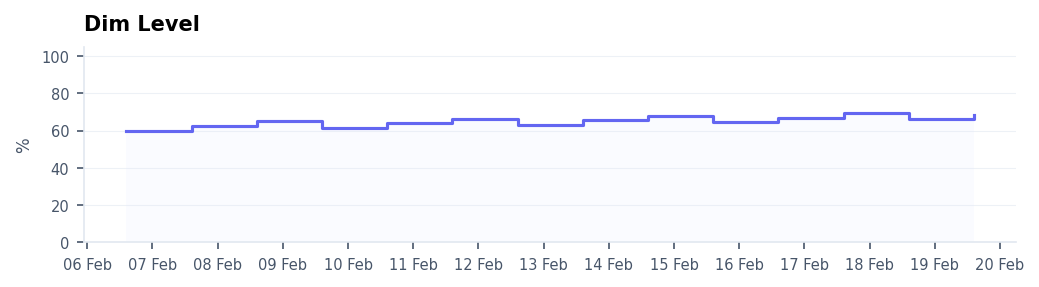
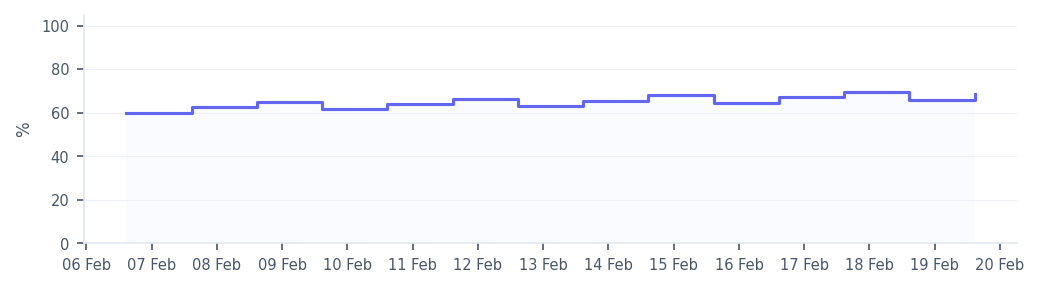
fix: correct 6 PDF report visual issues found during inspection
- Period label: only show month name for full calendar months (1st–last day)
- Chart titles: remove ax.set_title() calls to avoid duplicating HTML section headers
- Orphaned headers: add page-break-after:avoid to .section-title CSS
- Donut chart: replace unreliable flex ratios with explicit percentage widths
- Last Active column: fetch lastActivityTime and display in device table
- Site column: conditionally hide when report scope is a single site

diff --git a/reports-service/templates/report.html b/reports-service/templates/report.html
@@ -81,6 +81,7 @@
     padding-bottom: 3px;
     border-bottom: 2px solid #f59e0b;
     display: inline-block;
+    page-break-after: avoid;
   }
 
   /* ── KPI cards ──────────────────────────────────────── */
@@ -149,12 +150,14 @@
   }
 
   .device-table-wrap {
-    flex: 7;
+    width: 68%;
+    flex-shrink: 0;
     min-width: 0;
   }
 
   .device-donut-wrap {
-    flex: 3;
+    width: 28%;
+    flex-shrink: 0;
     display: flex;
     align-items: center;
     justify-content: center;
@@ -354,8 +357,9 @@
       <thead>
         <tr>
           <th>Device</th>
-          <th>Site</th>
+          {% if entity_type != "site" %}<th>Site</th>{% endif %}
           <th>Status</th>
+          <th>Last Active</th>
           <th class="num">Energy (kWh)</th>
           <th class="num">CO&#x2082; (kg)</th>
         </tr>
@@ -364,11 +368,12 @@
         {% for dev in devices %}
         <tr>
           <td>{{ dev.name }}</td>
-          <td>{{ dev.site }}</td>
+          {% if entity_type != "site" %}<td>{{ dev.site }}</td>{% endif %}
           <td>
             <span class="status-dot {{ 'online' if dev.status == 'Online' else 'offline' }}"></span>
             {{ dev.status }}
           </td>
+          <td>{{ dev.last_active }}</td>
           <td class="num">{{ "%.1f"|format(dev.energy_kwh) }}</td>
           <td class="num">{{ "%.1f"|format(dev.co2_kg) }}</td>
         </tr>

diff --git a/reports-service/services/chart_generator.py b/reports-service/services/chart_generator.py
@@ -100,7 +100,6 @@ def _auto_date_format(ax: plt.Axes, num_points: int) -> None:
 
 def _make_trend_area_chart(
     trend_data: list[dict],
-    title: str,
     ylabel: str,
     fill_color: str,
     line_color: str,
@@ -111,7 +110,7 @@ def _make_trend_area_chart(
     *trend_data* is ``[{ts: int, value: float}, ...]`` sorted by ts.
     """
     if not trend_data:
-        return _empty_chart_placeholder(title)
+        return _empty_chart_placeholder()
 
     dates, values = _ts_to_dates(trend_data)
 
@@ -119,7 +118,6 @@ def _make_trend_area_chart(
     if len(dates) == 1:
         fig, ax = plt.subplots(figsize=(7, 2.5))
         ax.bar(dates, values, width=0.6, color=fill_color, edgecolor=edge_color, linewidth=0.8)
-        ax.set_title(title, fontsize=10, fontweight="bold", pad=8, loc="left")
         ax.set_ylabel(ylabel, fontsize=8)
         _apply_clean_style(ax)
         _auto_date_format(ax, 1)
@@ -135,7 +133,6 @@ def _make_trend_area_chart(
     if len(dates) <= 31:
         ax.scatter(dates, values, color=edge_color, s=12, zorder=5, linewidths=0)
 
-    ax.set_title(title, fontsize=10, fontweight="bold", pad=8, loc="left")
     ax.set_ylabel(ylabel, fontsize=8)
     ax.set_ylim(bottom=0)
     _apply_clean_style(ax)
@@ -145,13 +142,11 @@ def _make_trend_area_chart(
     return _render_to_png(fig)
 
 
-def _empty_chart_placeholder(title: str) -> bytes:
+def _empty_chart_placeholder() -> bytes:
     """Generate a small 'no data' placeholder chart."""
     fig, ax = plt.subplots(figsize=(7, 2))
     ax.text(0.5, 0.5, "No data available", transform=ax.transAxes,
             ha="center", va="center", fontsize=10, color=_SLATE_400)
-    ax.set_title(title, fontsize=10, fontweight="bold", pad=8, loc="left",
-                 color=_SLATE_900)
     ax.set_xticks([])
     ax.set_yticks([])
     for spine in ax.spines.values():
@@ -168,7 +163,6 @@ def energy_trend_chart(trend_data: list[dict]) -> bytes:
     """Amber area chart for energy consumption trend. Y-axis in kWh."""
     return _make_trend_area_chart(
         trend_data,
-        title="Energy Consumption",
         ylabel="kWh",
         fill_color=_AMBER_LIGHT,
         line_color=_AMBER,
@@ -180,7 +174,6 @@ def co2_trend_chart(trend_data: list[dict]) -> bytes:
     """Emerald area chart for CO2 emissions trend. Y-axis in kg."""
     return _make_trend_area_chart(
         trend_data,
-        title="CO\u2082 Emissions",
         ylabel="kg",
         fill_color=_EMERALD_LIGHT,
         line_color=_EMERALD,
@@ -191,7 +184,7 @@ def co2_trend_chart(trend_data: list[dict]) -> bytes:
 def dim_trend_chart(trend_data: list[dict]) -> bytes:
     """Indigo step chart for dim level trend. Y-axis 0-100%."""
     if not trend_data:
-        return _empty_chart_placeholder("Dim Level")
+        return _empty_chart_placeholder()
 
     dates, values = _ts_to_dates(trend_data)
 
@@ -201,7 +194,6 @@ def dim_trend_chart(trend_data: list[dict]) -> bytes:
                     step="post", linewidth=0)
     ax.step(dates, values, where="post", color=_INDIGO, linewidth=1.5)
 
-    ax.set_title("Dim Level", fontsize=10, fontweight="bold", pad=8, loc="left")
     ax.set_ylabel("%", fontsize=8)
     ax.set_ylim(0, 105)
     _apply_clean_style(ax)

diff --git a/reports-service/services/report_generator.py b/reports-service/services/report_generator.py
@@ -6,8 +6,10 @@ pipeline triggered by a ReportRequest.
 
 from __future__ import annotations
 
+import calendar
 import logging
 import os
+import time
 import uuid
 from collections import defaultdict
 from datetime import datetime
@@ -77,9 +79,11 @@ def _make_period_label(start_iso: str, end_iso: str) -> str:
     s = datetime.fromisoformat(start_iso.replace("Z", "+00:00"))
     e = datetime.fromisoformat(end_iso.replace("Z", "+00:00"))
 
-    # Same month
+    # Exact calendar month (1st to last day)
     if s.year == e.year and s.month == e.month:
-        return s.strftime("%B %Y")
+        last_day = calendar.monthrange(e.year, e.month)[1]
+        if s.day == 1 and e.day >= last_day:
+            return s.strftime("%B %Y")
 
     # Full year (Jan 1 - Dec 31)
     if s.month == 1 and s.day == 1 and e.month == 12 and e.day == 31 and s.year == e.year:
@@ -230,8 +234,14 @@ def generate_report(request: ReportRequest) -> ReportResult:
                 total_energy_wh += dev_energy
                 total_co2_grams += dev_co2
 
-                # Device status
-                active = tb.is_device_active(device.id)
+                # Device status + last activity time (single API call)
+                attrs = tb.get_attributes(device.id, "DEVICE", "SERVER_SCOPE", ["lastActivityTime"])
+                last_ts = attrs.get("lastActivityTime", 0)
+                active = bool(last_ts and (time.time() * 1000 - last_ts) < 600_000)
+                last_active_str = ""
+                if last_ts:
+                    last_active_str = datetime.utcfromtimestamp(last_ts / 1000).strftime("%d %b %H:%M")
+
                 if active:
                     total_online += 1
                 else:
@@ -260,6 +270,7 @@ def generate_report(request: ReportRequest) -> ReportResult:
                     "name": device.name,
                     "site": site.name,
                     "status": "Online" if active else "Offline",
+                    "last_active": last_active_str,
                     "energy_kwh": round(dev_energy / 1000, 2),
                     "co2_kg": round(dev_co2 / 1000, 2),
                 })

diff --git a/reports-service/tests/test_pdf.py b/reports-service/tests/test_pdf.py
@@ -32,17 +32,17 @@ def _build_report_data(include_charts: bool = True) -> dict:
     """Build a complete report_data dict with devices, faults, trends, and KPIs."""
     devices = [
         {"name": "Sign-AMS-01", "site": "McDonald's Amsterdam", "status": "Online",
-         "energy_kwh": 12.5, "co2_kg": 5.4},
+         "last_active": "20 Feb 14:30", "energy_kwh": 12.5, "co2_kg": 5.4},
         {"name": "Sign-AMS-02", "site": "McDonald's Amsterdam", "status": "Online",
-         "energy_kwh": 9.8, "co2_kg": 4.2},
+         "last_active": "20 Feb 14:28", "energy_kwh": 9.8, "co2_kg": 4.2},
         {"name": "Sign-RTD-01", "site": "Burger King Rotterdam", "status": "Online",
-         "energy_kwh": 18.2, "co2_kg": 7.8},
+         "last_active": "20 Feb 14:25", "energy_kwh": 18.2, "co2_kg": 7.8},
         {"name": "Sign-NOR-01", "site": "Premier Inn Northampton", "status": "Offline",
-         "energy_kwh": 6.7, "co2_kg": 2.9},
+         "last_active": "18 Feb 09:15", "energy_kwh": 6.7, "co2_kg": 2.9},
         {"name": "Sign-NOR-02", "site": "Premier Inn Northampton", "status": "Online",
-         "energy_kwh": 8.4, "co2_kg": 3.6},
+         "last_active": "20 Feb 14:22", "energy_kwh": 8.4, "co2_kg": 3.6},
         {"name": "Sign-LDS-01", "site": "Tesco Express Leeds", "status": "Online",
-         "energy_kwh": 11.0, "co2_kg": 4.7},
+         "last_active": "20 Feb 14:18", "energy_kwh": 11.0, "co2_kg": 4.7},
     ]
 
     energy_trend = _make_trend(14, 8.0)
